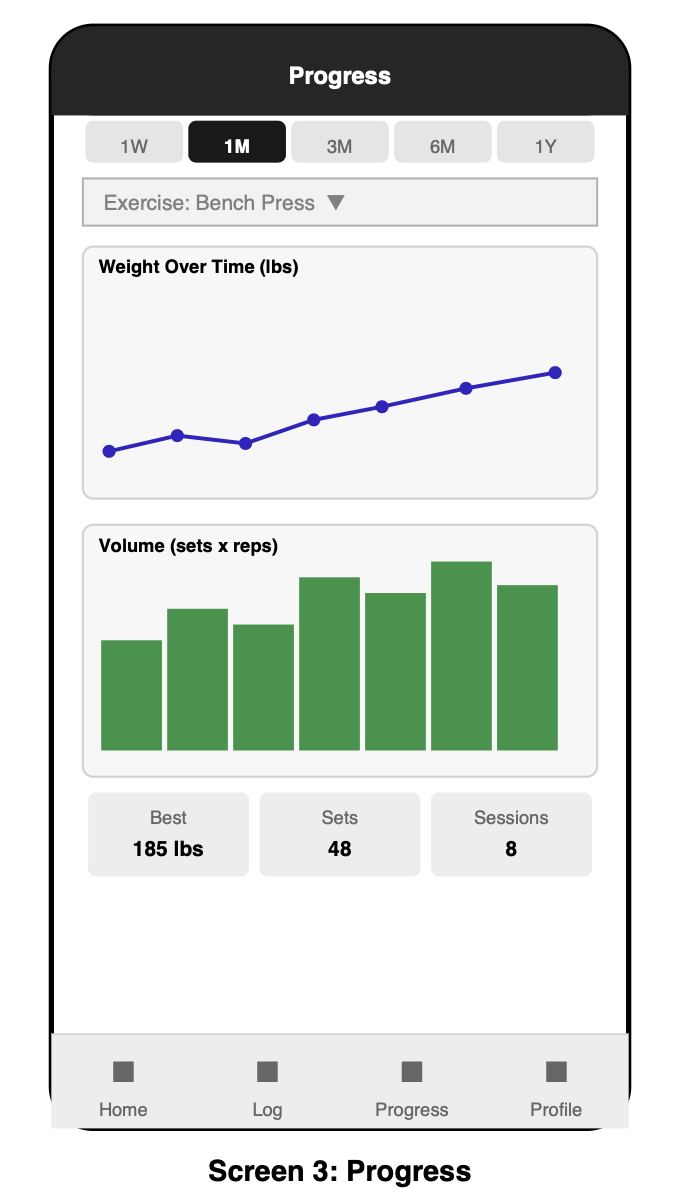
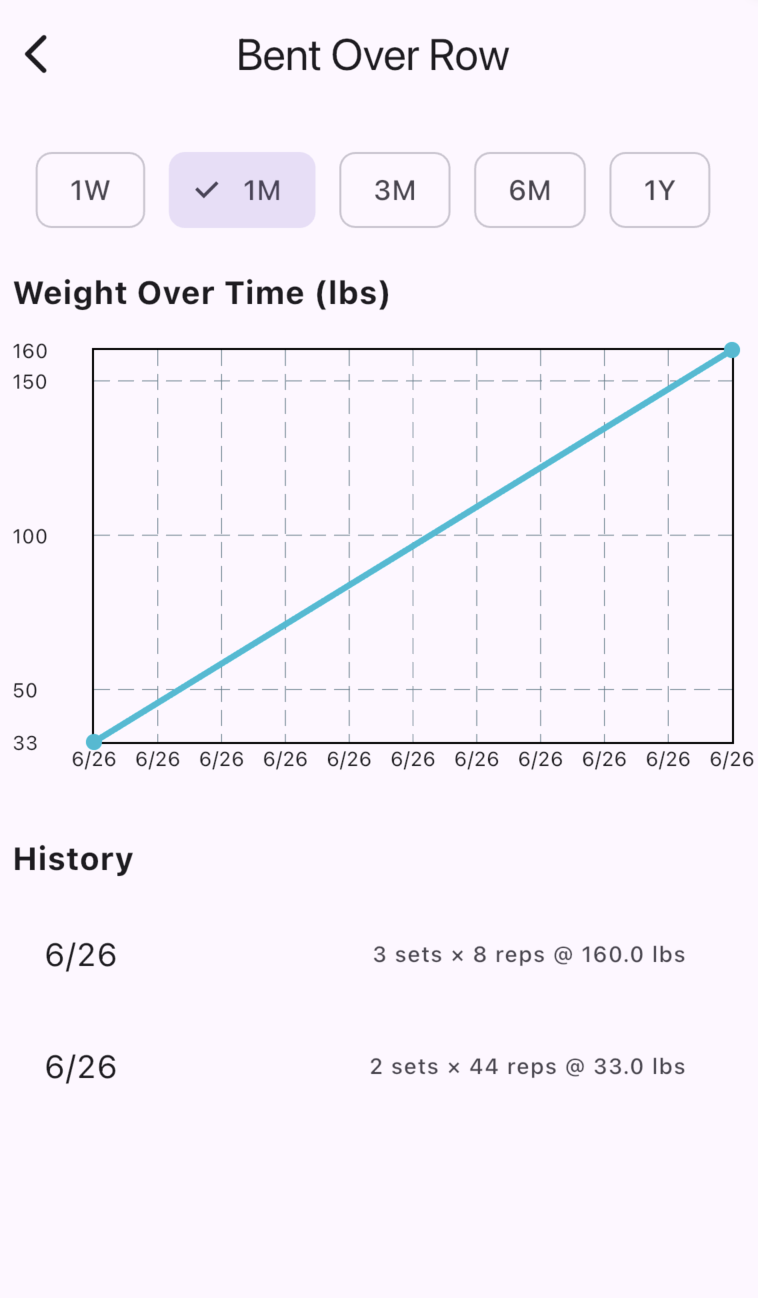
Update README, assets, and home screen comments

diff --git a/myfitness/lib/home_screen.dart b/myfitness/lib/home_screen.dart
@@ -1,3 +1,4 @@
+//home screen - main shell that holds the bottom navigation and three tabs
 import 'package:flutter/material.dart';
 import 'package:firebase_auth/firebase_auth.dart';
 import 'package:cloud_firestore/cloud_firestore.dart';
@@ -6,6 +7,7 @@ import 'workout_session_screen.dart';
 import 'workout_detail_screen.dart';
 import 'progress_screen.dart';
 
+//manages which tab is currently active and renders the bottom nav bar
 class HomeScreen extends StatefulWidget {
   const HomeScreen({super.key});
 
@@ -30,6 +32,7 @@ class _HomeScreenState extends State<HomeScreen> {
       appBar: AppBar(
         title: Text(_titles[_currentIndex]),
         actions: [
+          //only show logout on the home tab
           if (_currentIndex == 0)
             IconButton(
               icon: const Icon(Icons.logout),
@@ -46,6 +49,7 @@ class _HomeScreenState extends State<HomeScreen> {
         ],
       ),
       body: _tabs[_currentIndex],
+      //log tab launches workout session as a new screen instead of switching tabs
       bottomNavigationBar: BottomNavigationBar(
         currentIndex: _currentIndex,
         onTap: (index) {
@@ -68,6 +72,7 @@ class _HomeScreenState extends State<HomeScreen> {
   }
 }
 
+//home tab - shows a welcome message and the user's previous workout history
 class _HomeTab extends StatelessWidget {
   const _HomeTab();
 
@@ -84,6 +89,7 @@ class _HomeTab extends StatelessWidget {
       crossAxisAlignment: CrossAxisAlignment.start,
       children: [
         const SizedBox(height: 16),
+        //fetch the user's name from firestore and show a welcome message
         FutureBuilder<DocumentSnapshot>(
           future: FirebaseFirestore.instance.collection('users').doc(user?.uid).get(),
           builder: (context, snapshot) {
@@ -107,6 +113,7 @@ class _HomeTab extends StatelessWidget {
           ),
         ),
         const SizedBox(height: 8),
+        //stream builder keeps the list updated in real time
         Expanded(
           child: StreamBuilder<QuerySnapshot>(
             stream: FirebaseFirestore.instance
@@ -127,6 +134,7 @@ class _HomeTab extends StatelessWidget {
                 );
               }
 
+              //sort workouts by most recent first on the client side
               final workouts = snapshot.data!.docs
                 ..sort((a, b) {
                   final aDate = (a.data() as Map<String, dynamic>)['date'] as Timestamp;
@@ -167,6 +175,7 @@ class _HomeTab extends StatelessWidget {
   }
 }
 
+//placeholder tab - log button opens workout session as a full screen instead
 class _LogTab extends StatelessWidget {
   const _LogTab();
 

diff --git a/README.md b/README.md
@@ -17,12 +17,12 @@ myFitness is a fitness tracking application developed for CIS 350 (Introduction 
 - [Project Management](#project-management)
 - [Features](#features)
 - [Architectural Design](#architectural-design)
-- [Use Case Diagrams](#use-case-diagrams)
+- [Use Case Diagram](#use-case-diagram)
 - [Class Diagram](#class-diagram)
 - [Sequence Diagram](#sequence-diagram)
 - [Communication Diagram](#communication-diagram)
 - [Tech Stack](#tech-stack)
-- [UI](#user-interface-ui)
+- [User Interface (UI)](#user-interface-ui)
 - [Setup & Installation](#setup--installation)
 
 ---
@@ -50,13 +50,12 @@ We use Jira to manage tasks, track progress, and organize our work into sprints.
 
 ## Features
 
-- **User Authentication** — Secure login and account creation
-- **Exercise Library** — Pre-loaded exercises (squats, dumbbell curls, bench press, etc.)
-- **Custom Exercises** — Users can add their own exercises (e.g., jumping jacks)
-- **Workout Logging** — Log date, sets × reps, and weight per exercise
-- **Progress Tracking** — Visualize progress over a chosen time period
-  - Progressive overload (weight lifted over time)
-  - Volume trends (total sets/reps over time)
+- **User Registration & Login** — Create an account with name, email, and password. Existing users sign in with email and password. Session is managed by Firebase Authentication.
+- **Exercise Library** — Browse a built-in library of exercises organized by muscle group (Legs, Chest, Back, Shoulders, Arms, Core)
+- **Custom Exercises** — Add your own exercises with a name and category during a workout session
+- **Workout Logging** — Start a workout session, select exercises, and log sets, reps, and weight for each
+- **Workout History** — View all previous workout sessions on the home screen, tap to edit or delete any entry
+- **Progress Tracking** — View a per-exercise weight chart over selectable time periods (1 week, 1 month, 3 months, 6 months, 1 year) with a history list below
 
 ---
 
@@ -192,19 +191,30 @@ This screen shows the progress the user has made over a given period of time.
 
 ## Setup & Installation
 
-*(To be completed once tech stack is finalized)*
+### Prerequisites
+- [Flutter SDK](https://docs.flutter.dev/get-started/install) installed
+- [Xcode](https://developer.apple.com/xcode/) (for iOS) or Android Studio (for Android)
+- A Firebase project with Authentication and Firestore enabled
+
+### Steps
 
 ```bash
 # Clone the repository
-git clone <repo-url>
-cd fitness-tracker
+git clone https://github.com/CKThang/fitness-tracker.git
+cd fitness-tracker/myfitness
 
 # Install dependencies
-# TBD
+flutter pub get
 
-# Run the app
-# TBD
+# Run the app on a connected device or simulator
+flutter run
 ```
+
+### Firebase Setup
+1. Create a Firebase project at [console.firebase.google.com](https://console.firebase.google.com)
+2. Enable **Email/Password** under Authentication → Sign-in method
+3. Create a **Firestore** database in test mode
+4. Run `dart pub global run flutterfire_cli:flutterfire configure` to generate `firebase_options.dart`
 
 ---
 